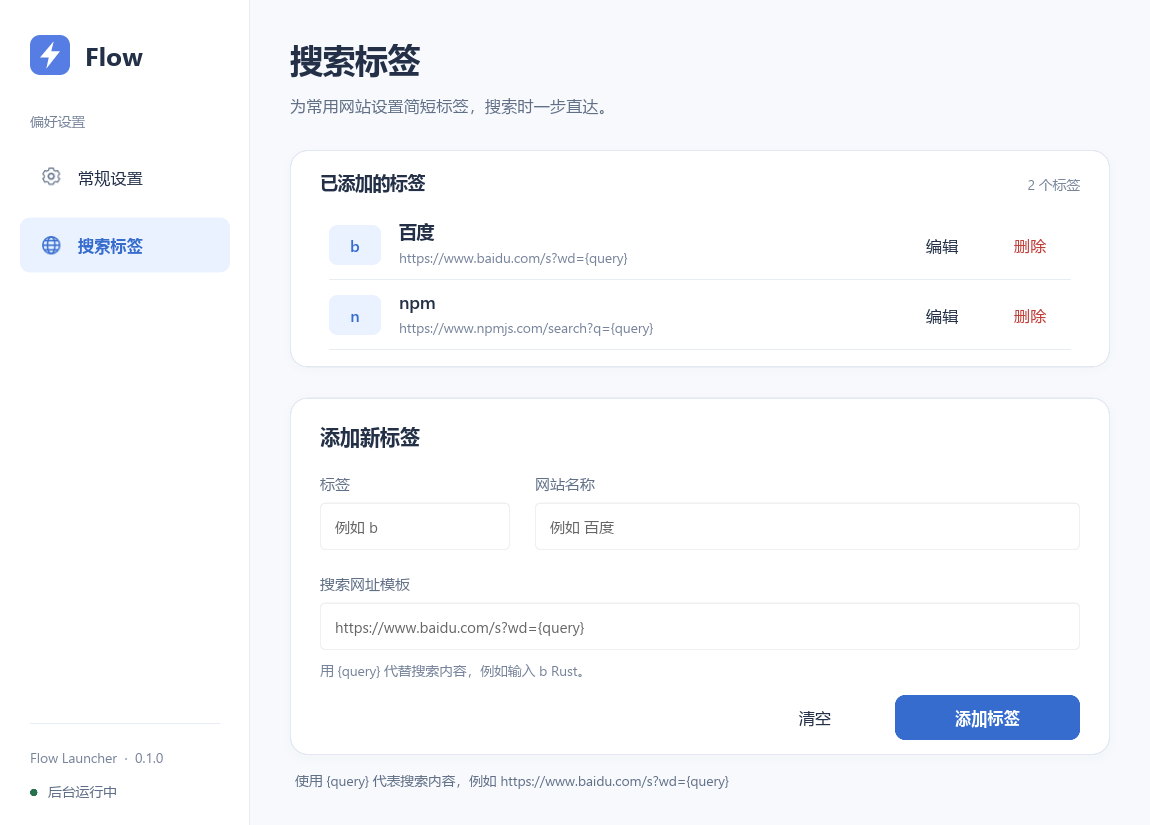
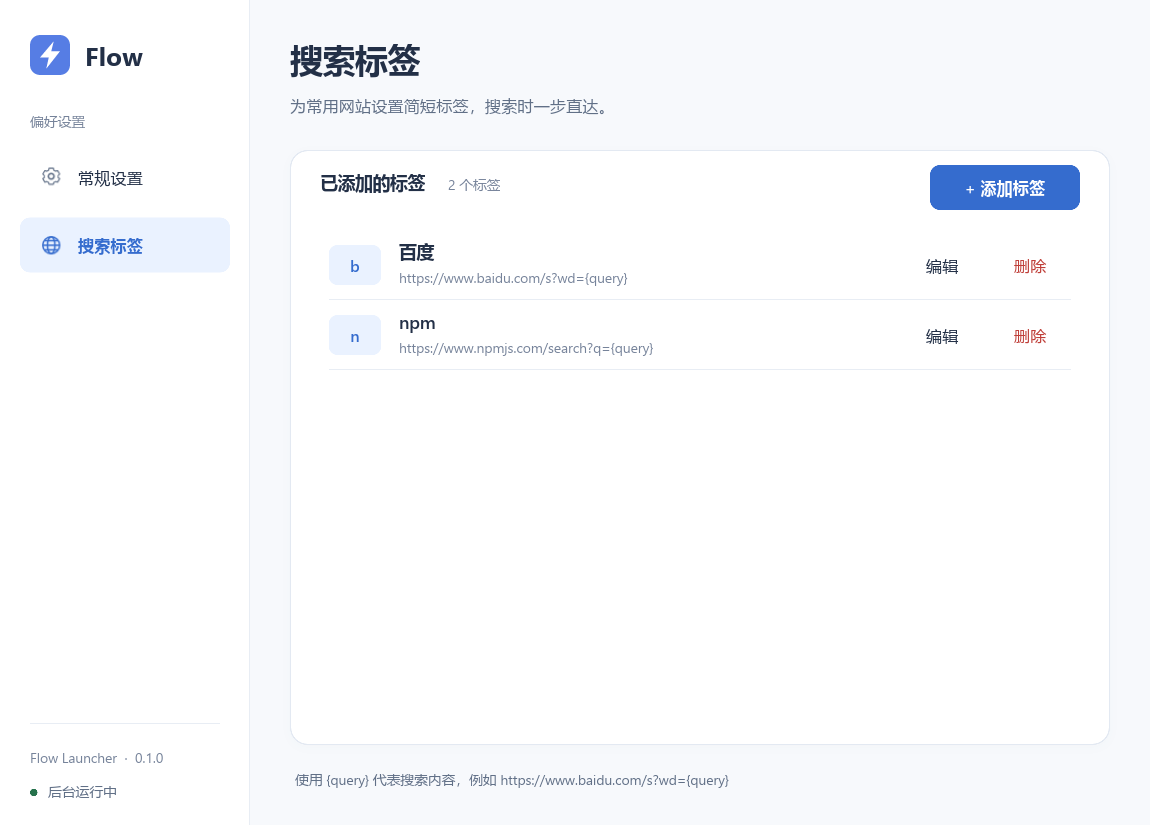
feat: 将标签添加与编辑表单改为居中模态弹窗
- 新增 TagDialog 组件，包含遮罩层、关闭按钮、表单字段和操作区，自动聚焦首个输入框
- 标签列表卡片扩展为内容区域主体，高度随窗口自适应，超出时滚动
- 弹窗打开期间禁用侧栏导航、列表操作及背景滚动，避免误操作
- 支持 Enter 保存、Esc 取消、右上角关闭按钮，保存成功自动关闭并刷新列表
- 新增 render-settings dialog 渲染示例和 search-check 交互测试覆盖弹窗全场景
- 新增标签弹窗设计规格文档，更新 README 说明弹窗交互行为

diff --git a/examples/search-check.rs b/examples/search-check.rs
@@ -73,6 +73,8 @@ fn main() -> Result<(), Box<dyn Error>> {
         submit(&ui, "x rust");
         assert!(ui.window().is_visible());
         assert!(ui.get_query_error());
+        settings.invoke_begin_add_tag();
+        assert!(settings.get_editor_open());
         settings.invoke_save_tag(
             -1,
             "g".into(),
@@ -80,7 +82,9 @@ fn main() -> Result<(), Box<dyn Error>> {
             "https://github.com/search?q={query}".into(),
         );
         assert!(!settings.get_tag_error());
+        assert!(!settings.get_editor_open());
         assert_eq!(settings.get_search_tags().row_count(), 3);
+        settings.invoke_begin_add_tag();
         settings.invoke_save_tag(
             -1,
             "B".into(),
@@ -88,8 +92,12 @@ fn main() -> Result<(), Box<dyn Error>> {
             "https://example.com/?q={query}".into(),
         );
         assert!(settings.get_tag_error());
+        assert!(settings.get_editor_open());
+        settings.invoke_cancel_tag_editor();
+        assert!(!settings.get_editor_open());
         assert_eq!(settings.get_search_tags().row_count(), 3);
         settings.invoke_edit_tag(2);
+        assert!(settings.get_editor_open());
         assert_eq!(settings.get_tag_keyword(), "g");
         settings.invoke_save_tag(
             2,
@@ -122,7 +130,55 @@ fn main() -> Result<(), Box<dyn Error>> {
         println!(
             "PASS: duplicate tags, unknown tags, empty queries and browser failures remain visible with errors"
         );
-        slint::quit_event_loop().unwrap();
+        settings.set_show_search_tags(true);
+        settings.show().unwrap();
+        settings.invoke_begin_add_tag();
+        settings.set_tag_keyword("k".into());
+        settings.set_tag_name("键盘测试".into());
+        settings.set_tag_template("https://example.com/?q={query}".into());
+        let weak = settings.as_weak();
+        slint::Timer::single_shot(Duration::from_millis(350), move || {
+            let settings = weak.upgrade().unwrap();
+            settings.window().dispatch_event(WindowEvent::KeyPressed {
+                text: Key::Return.into(),
+            });
+            settings.window().dispatch_event(WindowEvent::KeyReleased {
+                text: Key::Return.into(),
+            });
+            assert!(
+                !settings.get_editor_open(),
+                "Enter should save and close the dialog"
+            );
+            assert_eq!(settings.get_search_tags().row_count(), 3);
+            settings.invoke_begin_add_tag();
+            let weak = settings.as_weak();
+            slint::Timer::single_shot(Duration::from_millis(350), move || {
+                let settings = weak.upgrade().unwrap();
+                settings.window().dispatch_event(WindowEvent::KeyPressed {
+                    text: Key::Return.into(),
+                });
+                assert!(
+                    settings.get_editor_open(),
+                    "Invalid data must leave the dialog open"
+                );
+                assert!(settings.get_tag_error());
+                settings.window().dispatch_event(WindowEvent::KeyReleased {
+                    text: Key::Return.into(),
+                });
+                settings.window().dispatch_event(WindowEvent::KeyPressed {
+                    text: Key::Escape.into(),
+                });
+                assert!(
+                    !settings.get_editor_open(),
+                    "Escape should cancel the dialog"
+                );
+                assert_eq!(settings.get_search_tags().row_count(), 3);
+                println!(
+                    "PASS: add/edit dialogs, cancel, Enter save, validation retention and Escape dismissal"
+                );
+                slint::quit_event_loop().unwrap();
+            });
+        });
     });
     slint::run_event_loop_until_quit()?;
     std::fs::remove_file(directory.join("search-tags.json"))?;

diff --git a/examples/render-settings.rs b/examples/render-settings.rs
@@ -10,7 +10,8 @@ fn main() -> Result<(), Box<dyn Error>> {
     ui.set_platform_text(format!("{} · {}", std::env::consts::OS, std::env::consts::ARCH).into());
     ui.set_current_hotkey("Ctrl+Alt+Space".into());
     ui.set_edited_hotkey("Ctrl+Alt+Space".into());
-    let tags_page = std::env::args().nth(1).as_deref() == Some("tags");
+    let dialog_page = std::env::args().nth(1).as_deref() == Some("dialog");
+    let tags_page = dialog_page || std::env::args().nth(1).as_deref() == Some("tags");
     ui.set_show_search_tags(tags_page);
     ui.set_search_tags(
         std::rc::Rc::new(slint::VecModel::from(vec![
@@ -33,12 +34,17 @@ fn main() -> Result<(), Box<dyn Error>> {
         .join("FlowLauncherPreview/hotkey.txt");
     ui.set_config_path(config.to_string_lossy().into_owned().into());
     ui.show()?;
+    if dialog_page {
+        ui.invoke_begin_add_tag();
+    }
     let weak = ui.as_weak();
     slint::Timer::single_shot(Duration::from_millis(350), move || {
         let ui = weak.upgrade().unwrap();
         let pixels = ui.window().take_snapshot().unwrap();
         let (width, height) = (pixels.width(), pixels.height());
-        let mut file = std::fs::File::create(if tags_page {
+        let mut file = std::fs::File::create(if dialog_page {
+            "tag-dialog-preview.bmp"
+        } else if tags_page {
             "tags-preview.bmp"
         } else {
             "settings-preview.bmp"

diff --git a/src/search.rs b/src/search.rs
@@ -96,6 +96,7 @@ pub fn bind_with_opener(
             settings.set_tag_template(tag.url_template.clone().into());
             settings.set_tag_status("编辑后点击保存修改。".into());
             settings.set_tag_error(false);
+            settings.set_editor_open(true);
         }
     });
     let weak = settings.as_weak();

diff --git a/docs/superpowers/specs/2026-10-12-tag-dialog-design.md b/docs/superpowers/specs/2026-10-12-tag-dialog-design.md
@@ -1,0 +1,9 @@
+# 标签弹窗
+
+按用户要求，将标签添加 / 编辑表单从设置页移入居中模态弹窗。标签列表卡片扩大到内容区域主体，高度随窗口变化，列表超出可视区域时滚动。
+
+点击右上角添加按钮清空草稿并打开弹窗；编辑行加载当前数据后打开同一个弹窗。保存沿用既有标签校验和原子持久化，成功后关闭并刷新，失败时保留草稿并显示错误。取消、关闭按钮和 Esc 放弃草稿；表单输入框支持 Enter 保存。
+
+弹窗显示遮罩、关闭按钮、字段及操作区，并自动聚焦首个输入框。弹窗打开期间关闭侧栏、列表操作及背景滚动的交互，避免误操作。
+
+实际渲染检查覆盖弹窗和扩展列表。原生交互检查验证添加、编辑、取消、Enter 保存、错误时保持打开和 Escape 关闭。搜索与持久化逻辑保持原实现。

diff --git a/README.md b/README.md
@@ -48,6 +48,8 @@ cargo run
 
 在“设置 → 搜索标签”中添加、编辑或删除网站搜索标签。内置 `b` 对应百度、`n` 对应 npm：
 
+标签列表占据页面主体，点击右上角“添加标签”或列表中的“编辑”打开居中弹窗。保存成功自动关闭并刷新列表；错误留在弹窗中。取消、右上角关闭和 Esc 会放弃本次编辑，输入框中按 Enter 可保存。
+
 ```text
 b Rust 中文教程
 n @slint-ui/slint-ui
@@ -87,6 +89,7 @@ cargo run --example interaction-check
 cargo run --example settings-check
 cargo run --example render-settings
 cargo run --example render-settings -- tags
+cargo run --example render-settings -- dialog
 cargo run --example search-check
 ```
 
